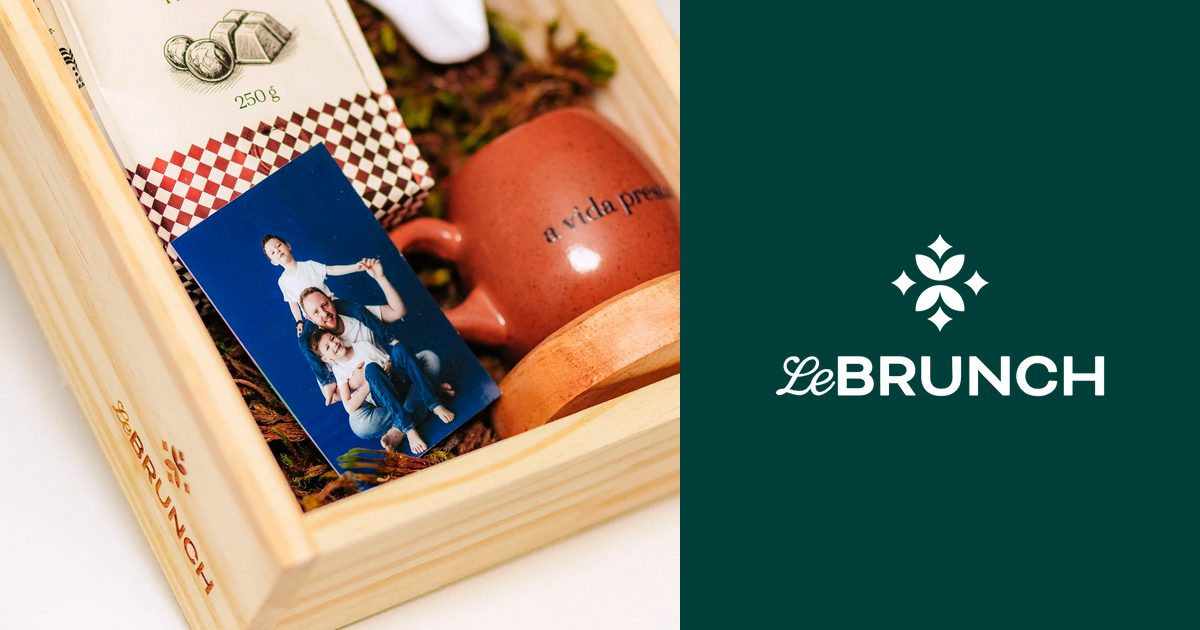
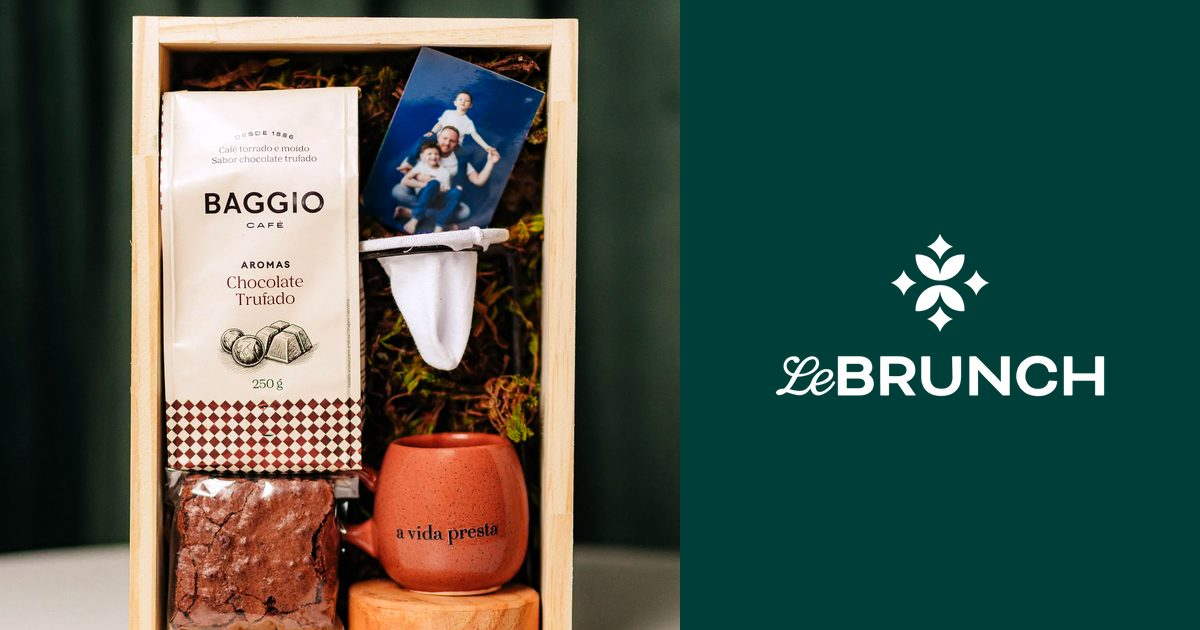
Revisão no celular: rodapé compacto, toques maiores e textos
Achados da revisão página por página em 360 e 390px (26 páginas, menu e
modal de pedido):

- Rodapé em duas colunas no celular (Modelos ao lado dos horários): numa
  coluna só ele passava de duas telas e meia
- Trilha "Modelos / Linha / Modelo", logo do topo e selo de avaliações com
  área de toque de 44px (a trilha tinha 16px de altura)
- Fileiras das linhas na home: "Ver os 4 modelos" em vez de "Ver a
  Presentes", que não fechava a concordância
- Pronta Entrega abre com a caixa de frente: a foto da linha era a mesma
  da capa do único modelo, logo abaixo
- Cartões "Continue navegando": degradê mais alto, o rótulo "3 modelos"
  sumia na parte clara da foto

diff --git a/components/atalhos-linhas.tsx b/components/atalhos-linhas.tsx
@@ -43,7 +43,11 @@ export function AtalhosLinhas({ excluir }: { excluir?: CategoriaSlug }) {
                     aria-hidden
                     className={clsx(
                       "absolute inset-0 -z-10 bg-gradient-to-t to-transparent",
-                      natal ? "from-noite/90 via-noite/30" : "from-verde-900/85 via-verde-900/20",
+                      // o degradê sobe até o rótulo: no cartão baixo do celular,
+                      // o "3 modelos" caía na parte clara da foto
+                      natal
+                        ? "from-noite/90 via-noite/50 via-55%"
+                        : "from-verde-900/90 via-verde-900/50 via-55%",
                     )}
                   />
                   <span className="flex w-full items-end justify-between gap-3">
@@ -51,7 +55,7 @@ export function AtalhosLinhas({ excluir }: { excluir?: CategoriaSlug }) {
                       <span
                         className={clsx(
                           "olho inline-flex items-center gap-1.5",
-                          natal ? "text-ouro-claro" : "text-papel/70",
+                          natal ? "text-ouro-claro" : "text-papel/85",
                         )}
                       >
                         {natal ? <IconeBrilho className="size-3" /> : null}

diff --git a/components/site-footer.tsx b/components/site-footer.tsx
@@ -24,8 +24,10 @@ export function SiteFooter() {
       />
 
       <div className="relative mx-auto w-full max-w-6xl">
-        <div className="grid gap-12 md:grid-cols-2 md:gap-10 lg:grid-cols-[1.3fr_0.8fr_0.9fr_1fr] lg:gap-8">
-          <div className="flex flex-col gap-6">
+        {/* No celular, duas colunas (Modelos ao lado dos horários): numa
+            coluna só o rodapé passava de duas telas e meia. */}
+        <div className="grid grid-cols-2 gap-x-6 gap-y-12 md:gap-10 lg:grid-cols-[1.3fr_0.8fr_0.9fr_1fr] lg:gap-8">
+          <div className="col-span-2 flex flex-col gap-6 md:col-span-1">
             <Logotipo className="h-24 w-[11rem] text-papel" />
             <p className="script max-w-xs text-2xl text-terra-400">
               {site.assinatura}
@@ -115,7 +117,7 @@ export function SiteFooter() {
             </div>
           </div>
 
-          <div>
+          <div className="col-span-2 md:col-span-1">
             <h2 className="olho text-papel/65">Le Brunch</h2>
             <ul className="mt-5 flex flex-col gap-1 text-[0.9375rem] text-papel/85">
               <li>

diff --git a/app/cestas/modelo/[slug]/page.tsx b/app/cestas/modelo/[slug]/page.tsx
@@ -70,7 +70,7 @@ export default async function CestaPage(
         <nav aria-label="Você está aqui" className="relative mb-8">
           <ol className="olho flex flex-wrap items-center gap-2 text-tinta-suave">
             <li>
-              <Link href="/cestas" className="hover:text-verde-900">
+              <Link href="/cestas" className="-my-3.5 inline-flex min-h-11 items-center hover:text-verde-900">
                 Modelos
               </Link>
             </li>
@@ -78,7 +78,7 @@ export default async function CestaPage(
             <li>
               <Link
                 href={hrefCategoria(categoria)}
-                className="hover:text-verde-900"
+                className="-my-3.5 inline-flex min-h-11 items-center hover:text-verde-900"
               >
                 {categoria.nome}
               </Link>

diff --git a/components/linha-editorial.tsx b/components/linha-editorial.tsx
@@ -89,7 +89,13 @@ export function LinhaEditorial({
           href={hrefCategoria(categoria)}
           className="olho inline-flex min-h-11 w-fit items-center gap-2.5 border-b border-verde-900/25 pb-1 transition-colors duration-300 hover:border-verde-900"
         >
-          Ver {categoria.tema === "natal" ? "a coleção" : `a ${categoria.nomeCurto}`}
+          {/* "Ver a Presentes" não fecha a concordância em toda linha; o número
+              de modelos serve para qualquer uma */}
+          {categoria.tema === "natal"
+            ? "Ver a coleção"
+            : quantidade === 1
+              ? "Ver o modelo"
+              : `Ver os ${quantidade} modelos`}
           <IconeSeta className="size-4 transition-transform duration-400 ease-suave group-hover:translate-x-1" />
         </LinkTransicao>
       </div>

diff --git a/components/hero.tsx b/components/hero.tsx
@@ -143,7 +143,7 @@ export function Hero() {
             href={site.google.perfil}
             target="_blank"
             rel="noopener noreferrer"
-            className="inline-flex items-center gap-2.5 rounded-full bg-papel/10 px-4 py-2 text-[0.8125rem] backdrop-blur-md ring-1 ring-papel/20 transition-colors hover:bg-papel/20"
+            className="inline-flex min-h-11 items-center gap-2.5 rounded-full bg-papel/10 px-4 py-2 text-[0.8125rem] backdrop-blur-md ring-1 ring-papel/20 transition-colors hover:bg-papel/20"
           >
             <span className="flex gap-0.5 text-ouro-claro" aria-hidden>
               {[1, 2, 3, 4, 5].map((i) => (

diff --git a/data/cestas.ts b/data/cestas.ts
@@ -93,7 +93,9 @@ export const categorias: Categoria[] = [
     chamada: "Para o carinho que não pode esperar",
     descricao:
       "O nosso presente menorzinho — caneca, café para coar e uma foto impressa de quem você ama. Pronto para sair no mesmo dia.",
-    foto: foto("cafe-coado-1"),
+    // de frente, a caixa inteira: a capa do modelo (cafe-coado-1) vem logo
+    // abaixo na página da linha, e a mesma foto duas vezes seguidas pesava
+    foto: foto("cafe-coado-3"),
     prontaEntrega: true,
     selo: "Sai hoje",
   },

diff --git a/app/cestas/[categoria]/page.tsx b/app/cestas/[categoria]/page.tsx
@@ -65,7 +65,7 @@ export default async function CategoriaPage(
         <nav aria-label="Você está aqui" className="relative mb-8">
           <ol className="olho flex items-center gap-2 text-tinta-suave">
             <li>
-              <Link href="/cestas" className="hover:text-verde-900">
+              <Link href="/cestas" className="-my-3.5 inline-flex min-h-11 items-center hover:text-verde-900">
                 Modelos
               </Link>
             </li>

diff --git a/components/site-header.tsx b/components/site-header.tsx
@@ -148,7 +148,7 @@ export function SiteHeader() {
           <LinkTransicao
             href="/"
             aria-label="Le Brunch — página inicial"
-            className="flex items-center gap-2.5"
+            className="flex min-h-11 items-center gap-2.5"
           >
             <Simbolo className="h-7 w-7 shrink-0 sm:h-8 sm:w-8" />
             <Wordmark className="h-3.5 w-[6.5rem] sm:h-4 sm:w-[7.5rem]" />
